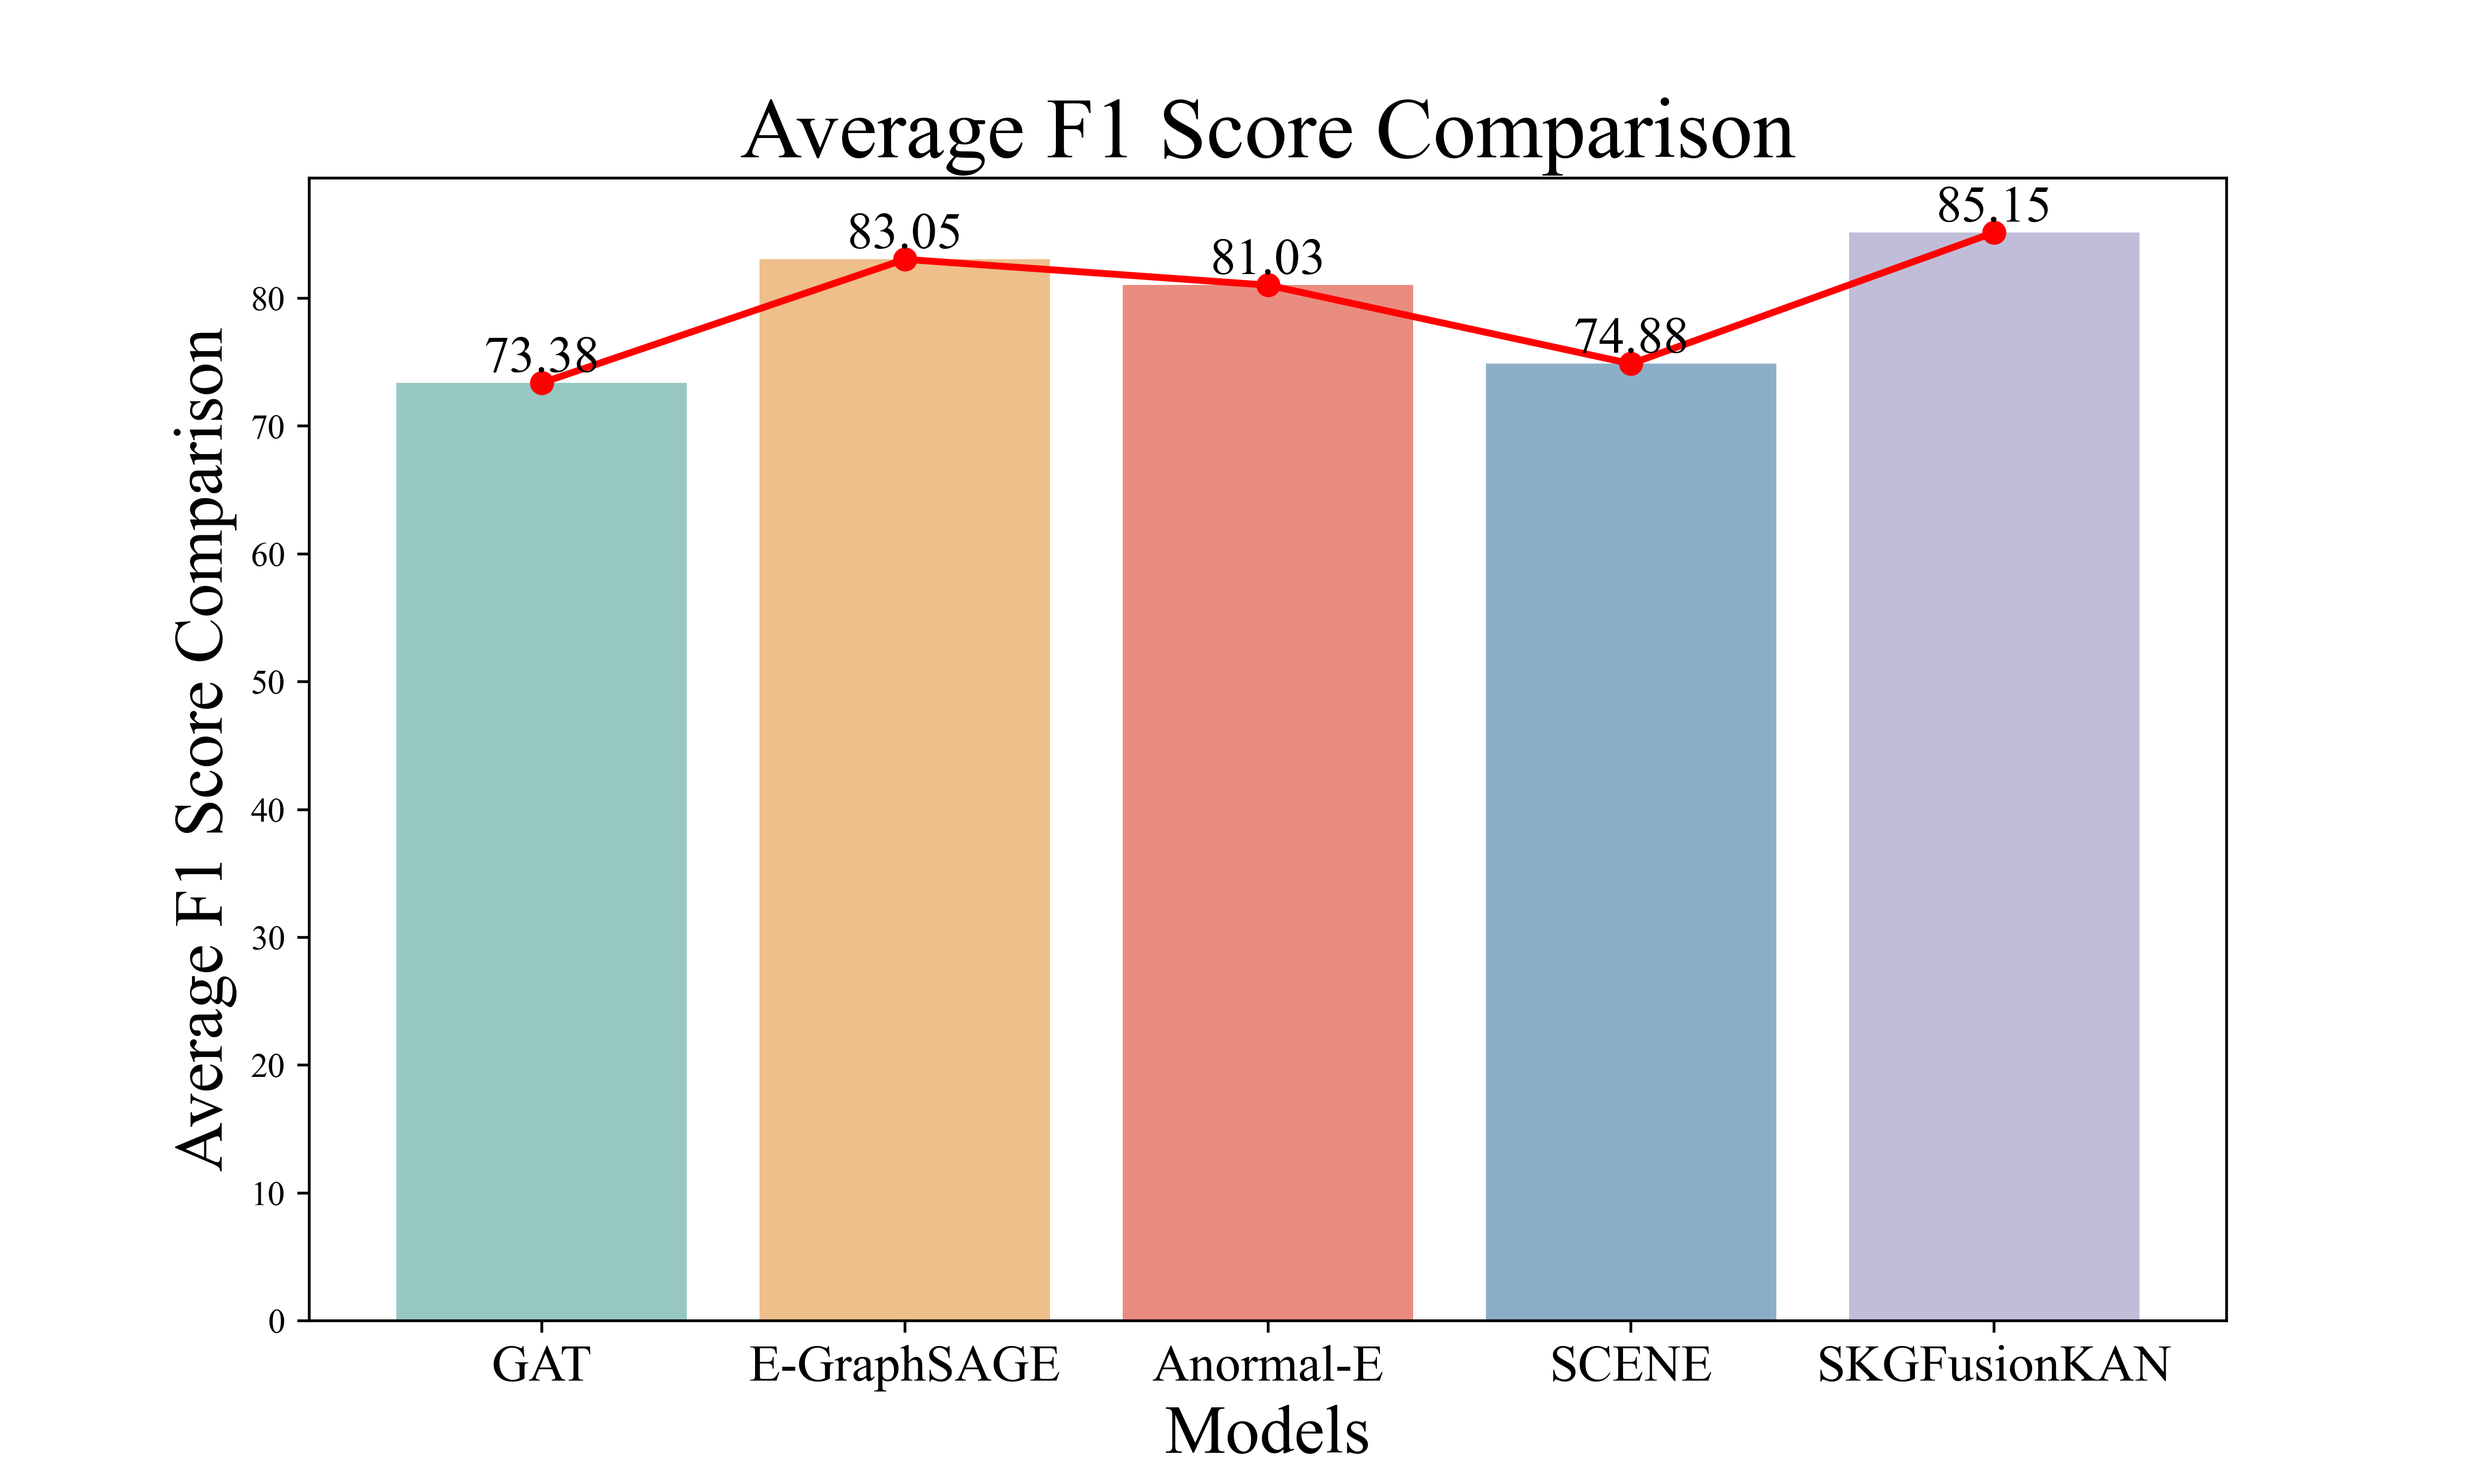
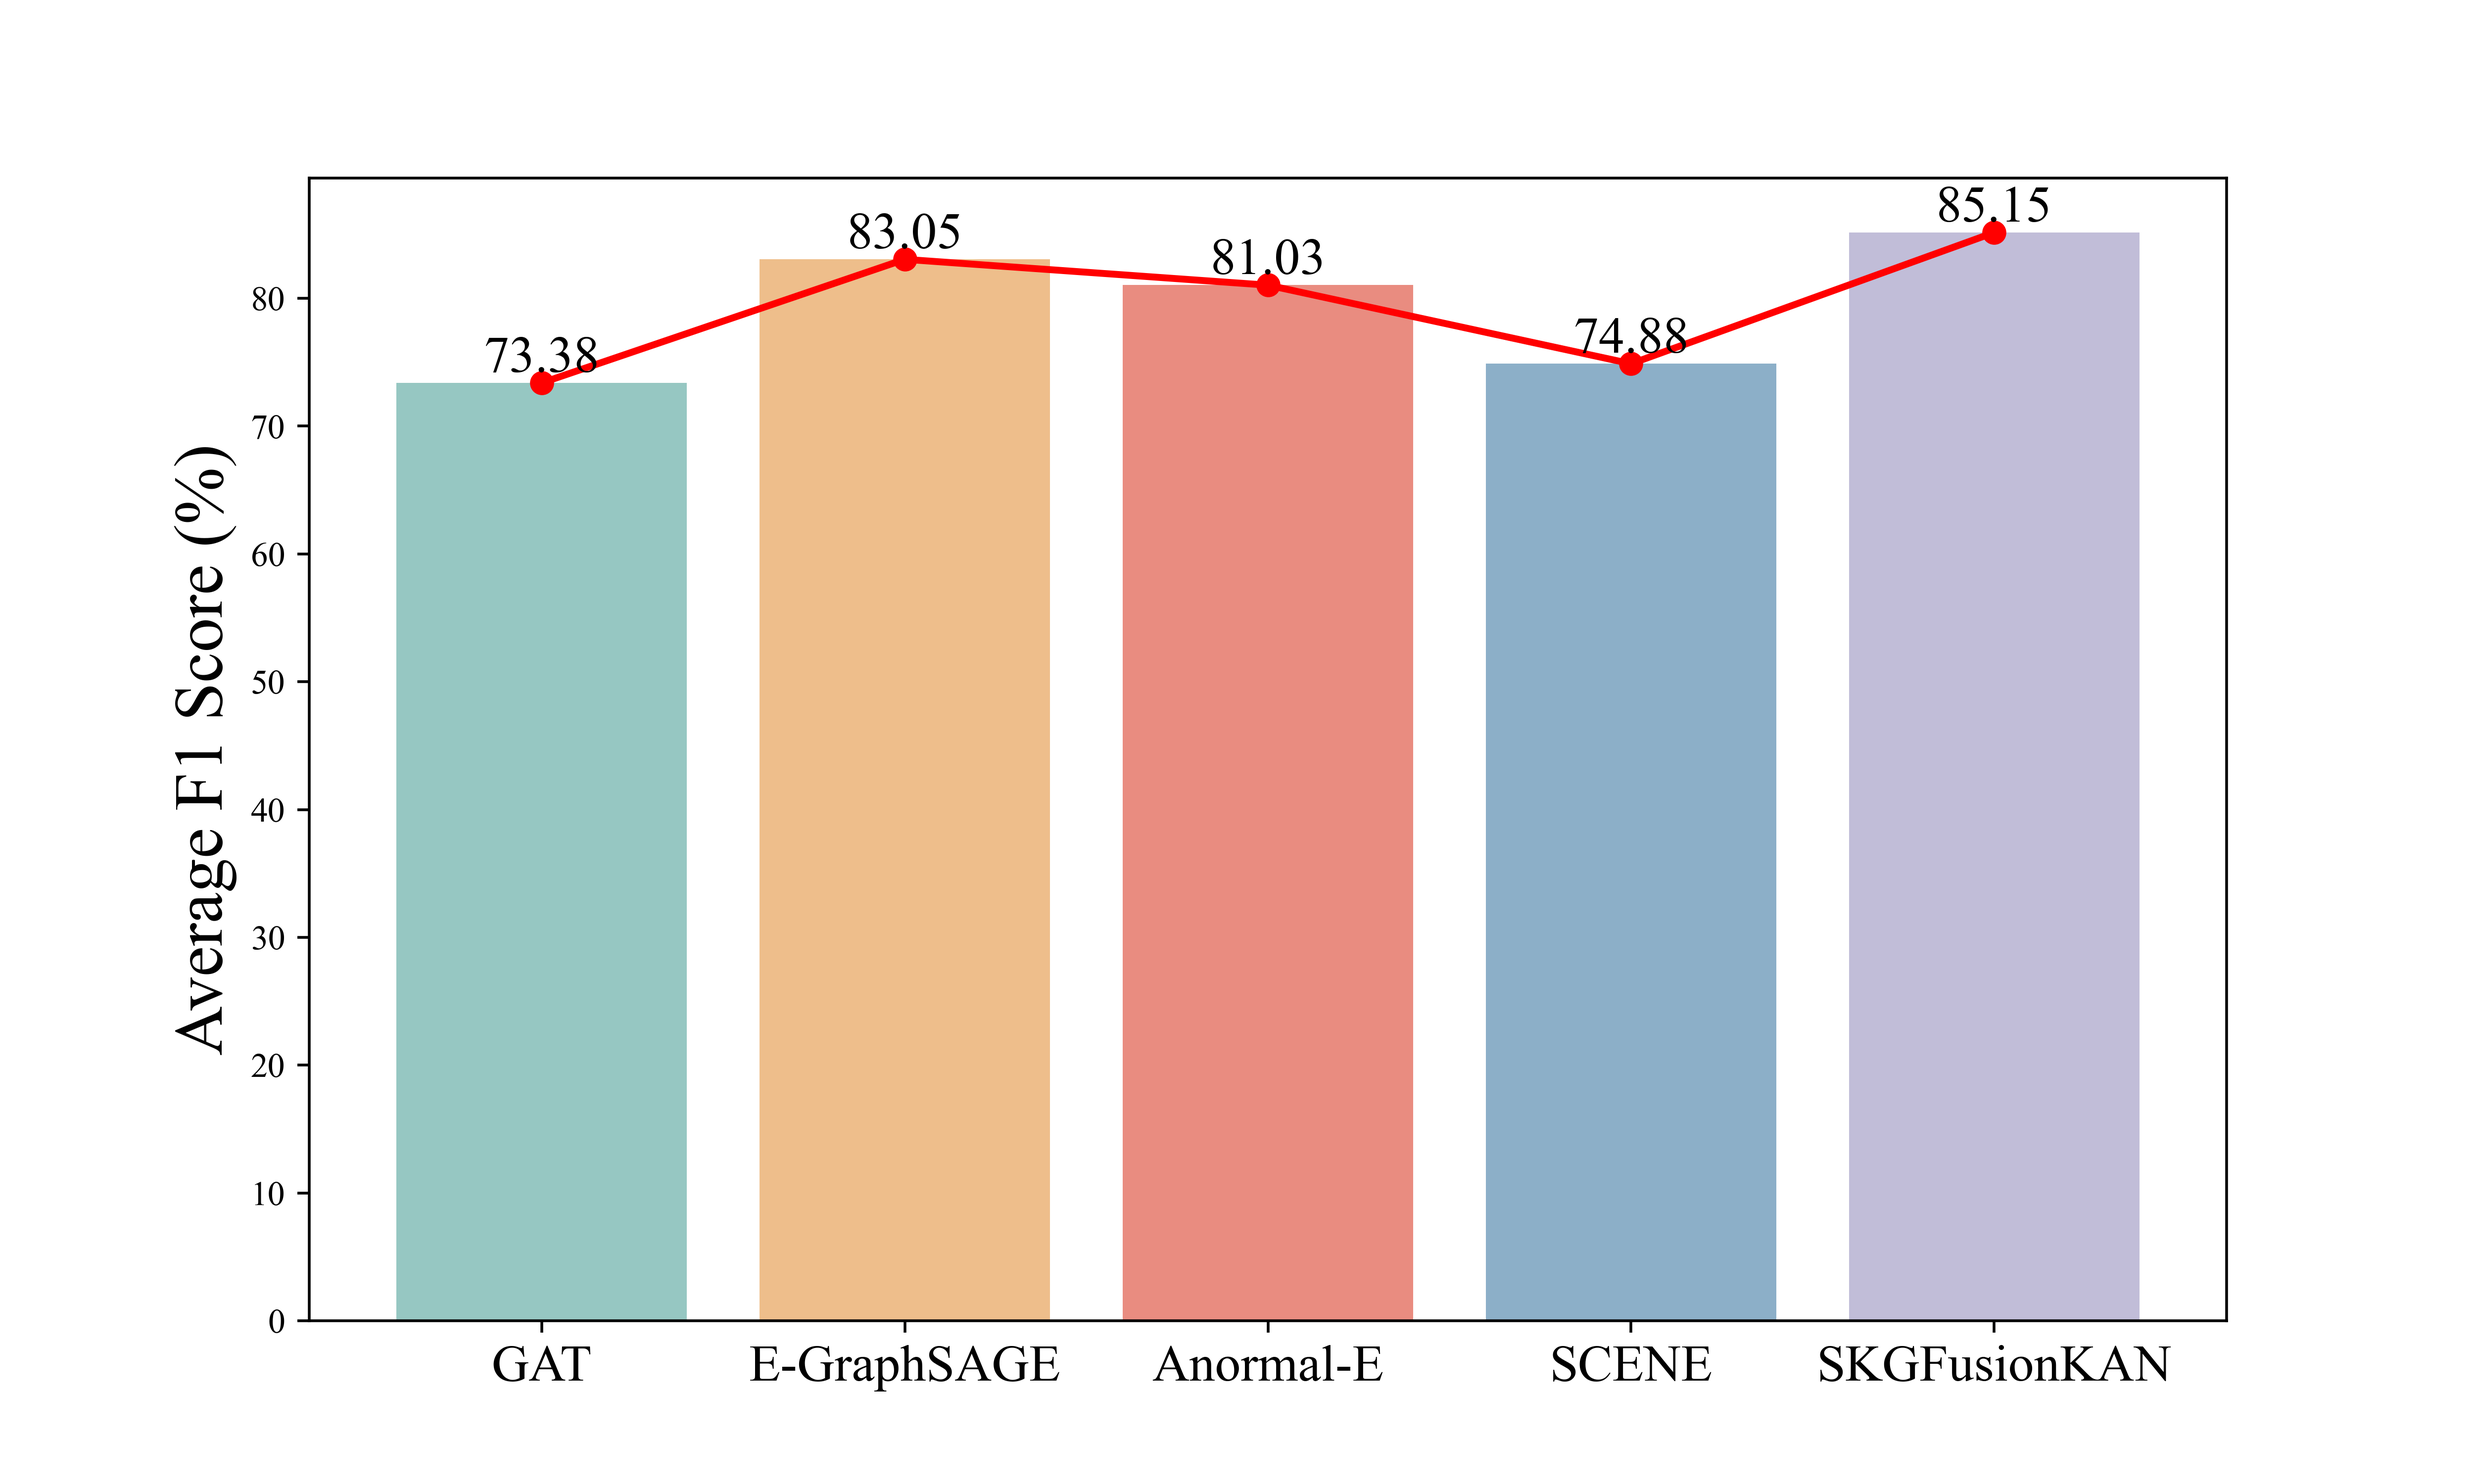
add figures

Changed region(s): [[0.312, 0.062, 0.7176, 0.124], [0.0624, 0.217, 0.0936, 0.775], [0.468, 0.93, 0.5616, 0.992]]

diff --git a/E-GraphSAGE/experiments/draw.py b/E-GraphSAGE/experiments/draw.py
@@ -31,8 +31,8 @@ def plot_metric(metric, title):
     # 绘制折线
     plt.plot(df['Model'], df[metric], marker='o', color='red', linewidth=2, label='Trend')
 
-    plt.title(title, fontsize=25)
-    plt.xlabel('Models', fontsize=20)
+    plt.title('', fontsize=25)
+    plt.xlabel('', fontsize=20)
     plt.ylabel(title, fontsize=20)
     plt.xticks(fontsize=15)
 
@@ -44,6 +44,6 @@ def plot_metric(metric, title):
     plt.close()
 
 # 绘制三种指标的图表
-plot_metric('F1 Score', 'Average F1 Score Comparison')
-plot_metric('Precision', 'Average Precision Comparison')
-plot_metric('Recall', 'Average Recall Comparison')
+plot_metric('F1 Score', 'Average F1 Score (%)')
+plot_metric('Precision', 'Average Precision (%)')
+plot_metric('Recall', 'Average Recall (%)')
